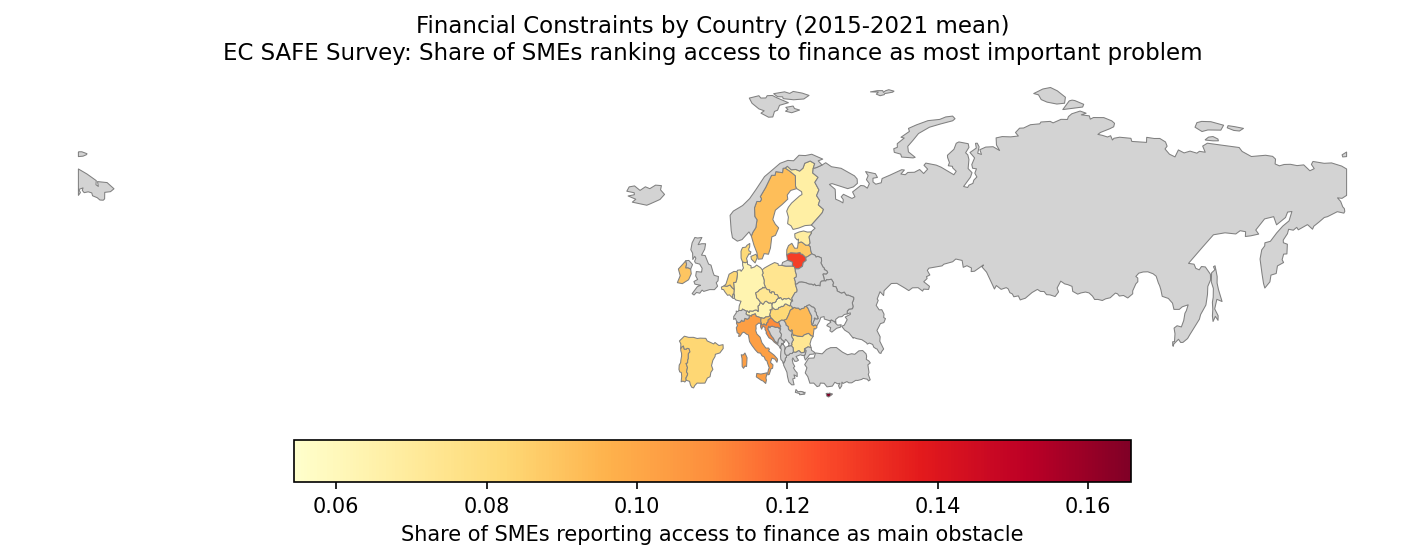
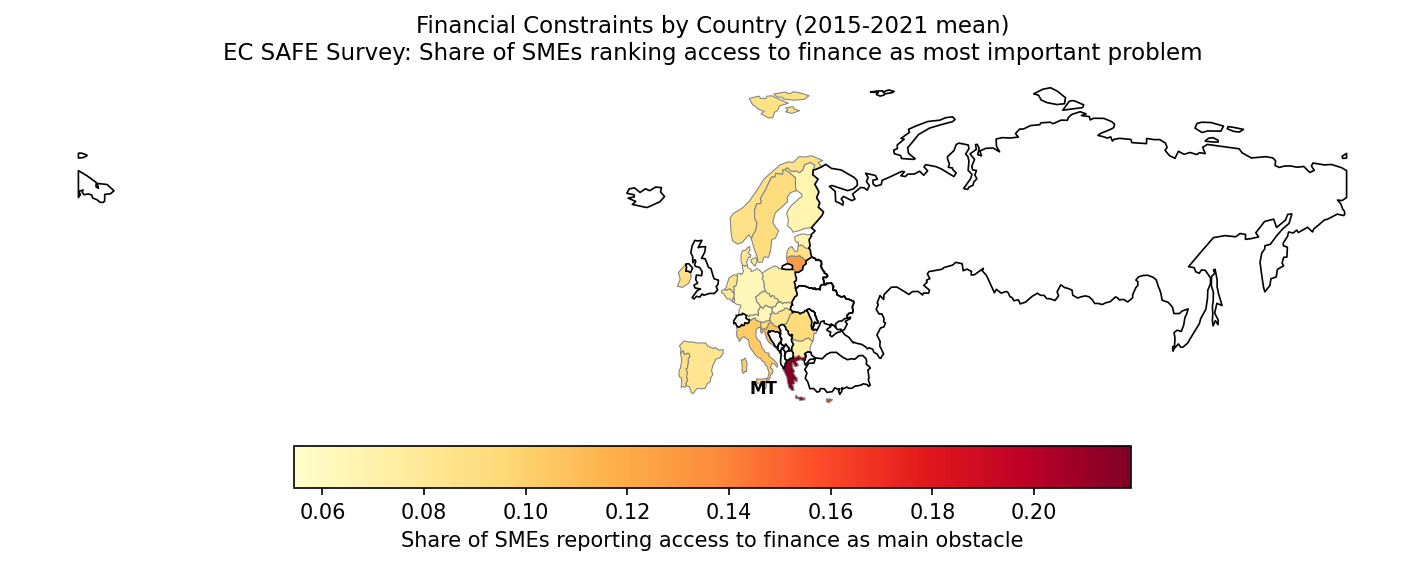
viz: fix Figure 1 constraint map — show France and missing-country boundaries
- Map France (Natural Earth codes it as -99, not FR)
- Map Greece via EL->GR code conversion
- Add thin black boundaries for countries with no data
- Add MT annotation for Malta (too small for 110m shapefile)

diff --git a/src/viz/descriptives.py b/src/viz/descriptives.py
@@ -36,28 +36,33 @@ def beat1_constraint_map(panel):
     )
     mean_constraint.columns = ["iso_a2", "constraint_share"]
 
+    # Natural Earth 110m uses some different codes; map them
+    iso_map = {"EL": "GR", "FR": "-99"}  # FR is -99 in NE; MT is missing entirely
+    mean_constraint["ne_iso"] = mean_constraint["iso_a2"].replace(iso_map)
+
     # Load world shapefile and filter for Europe
-    # GeoPandas 1.0+ removed gpd.datasets; fetch directly from Natural Earth
     world_url = (
         "https://naciscdn.org/naturalearth/110m/cultural/"
         "ne_110m_admin_0_countries.zip"
     )
     world = gpd.read_file(world_url)
     europe = world[world["CONTINENT"] == "Europe"].copy()
-    # Also include Turkey and Cyprus which may be coded differently
     europe = pd.concat(
         [
             europe,
             world[world["ISO_A2"].isin(["CY", "TR"])],
         ]
     ).drop_duplicates(subset=["ISO_A2"])
-    europe = europe.rename(columns={"ISO_A2": "iso_a2"})
+    europe = europe.rename(columns={"ISO_A2": "ne_iso"})
 
     # Merge
-    europe = europe.merge(mean_constraint, on="iso_a2", how="left")
+    europe = europe.merge(mean_constraint, on="ne_iso", how="left")
 
     fig, ax = plt.subplots(1, 1, figsize=(12, 8))
-    europe.plot(
+
+    # Plot countries with data
+    europe_with_data = europe[europe["constraint_share"].notna()]
+    europe_with_data.plot(
         column="constraint_share",
         cmap="YlOrRd",
         linewidth=0.5,
@@ -70,8 +75,27 @@ def beat1_constraint_map(panel):
             "pad": 0.03,
             "shrink": 0.6,
         },
-        missing_kwds={"color": "lightgray", "label": "No data"},
     )
+
+    # Plot countries with no data in thin black (includes Malta which has no geometry)
+    europe_no_data = europe[europe["constraint_share"].isna()]
+    if not europe_no_data.empty:
+        europe_no_data.plot(
+            ax=ax,
+            facecolor="none",
+            edgecolor="black",
+            linewidth=0.8,
+        )
+
+    # For Malta (too small for 110m), add a note if it's in the data
+    if "MT" in mean_constraint["iso_a2"].values:
+        ax.annotate(
+            "MT",
+            xy=(14.5, 35.9),
+            fontsize=8,
+            ha="center",
+            fontweight="bold",
+        )
 
     ax.set_title(
         "Financial Constraints by Country (2015-2021 mean)\n"